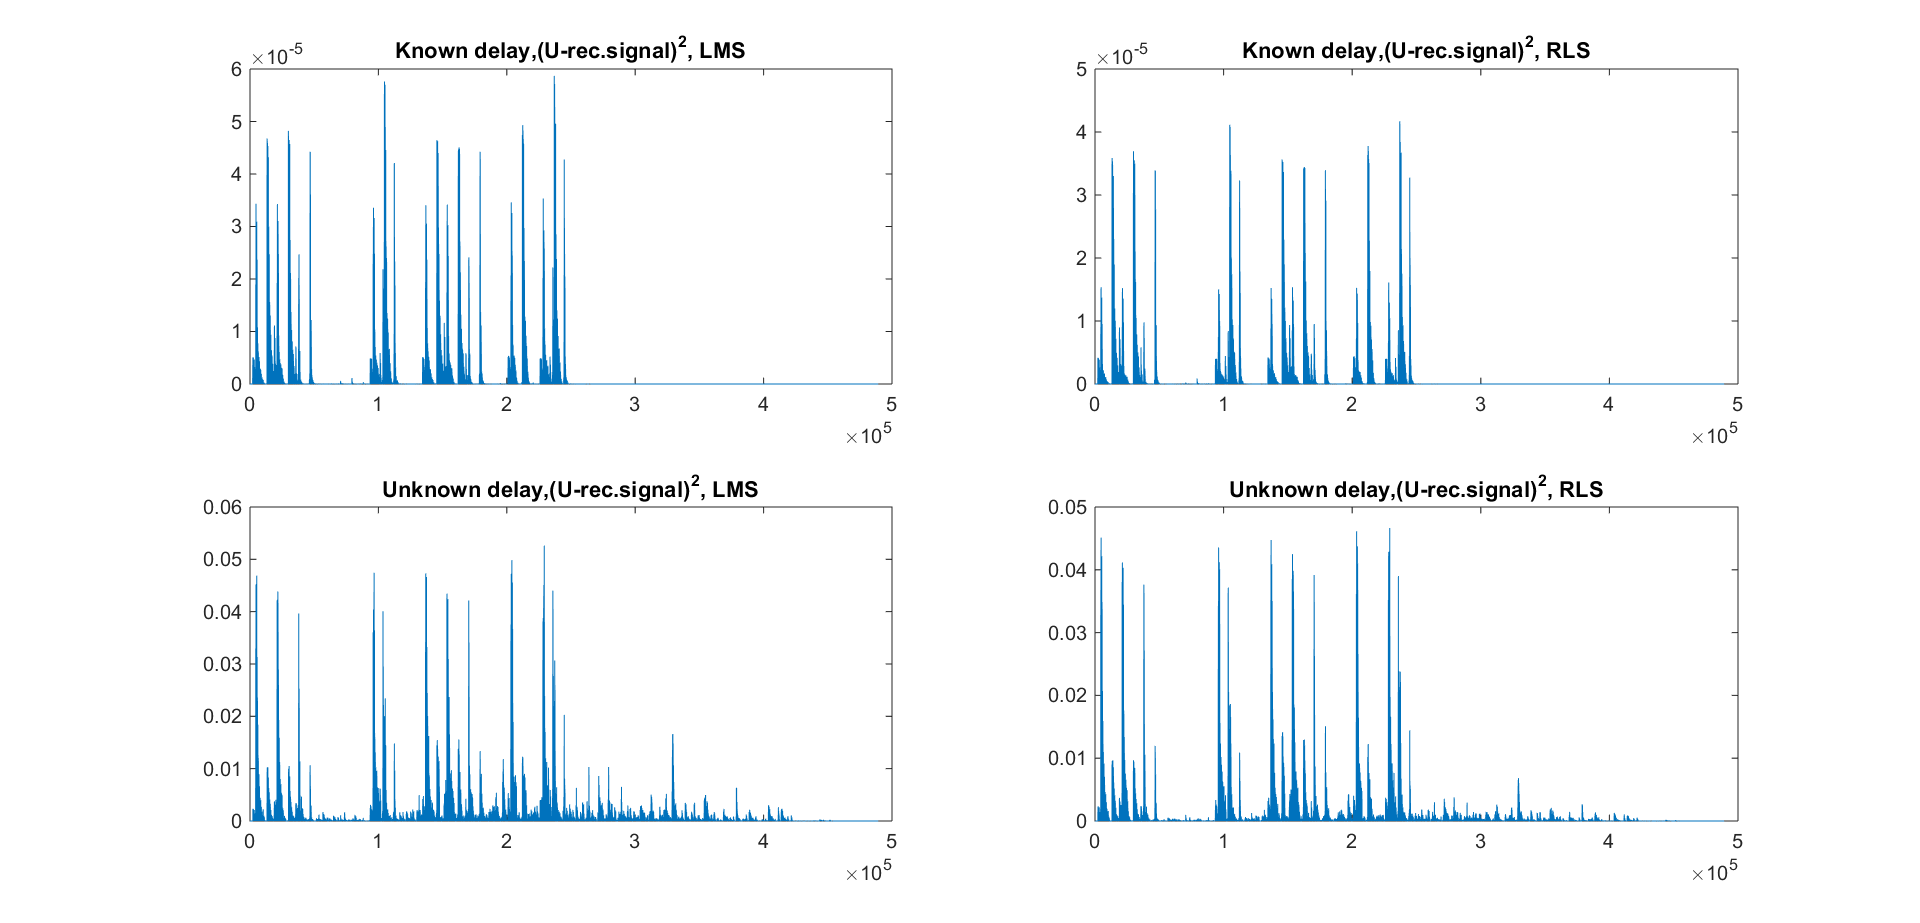
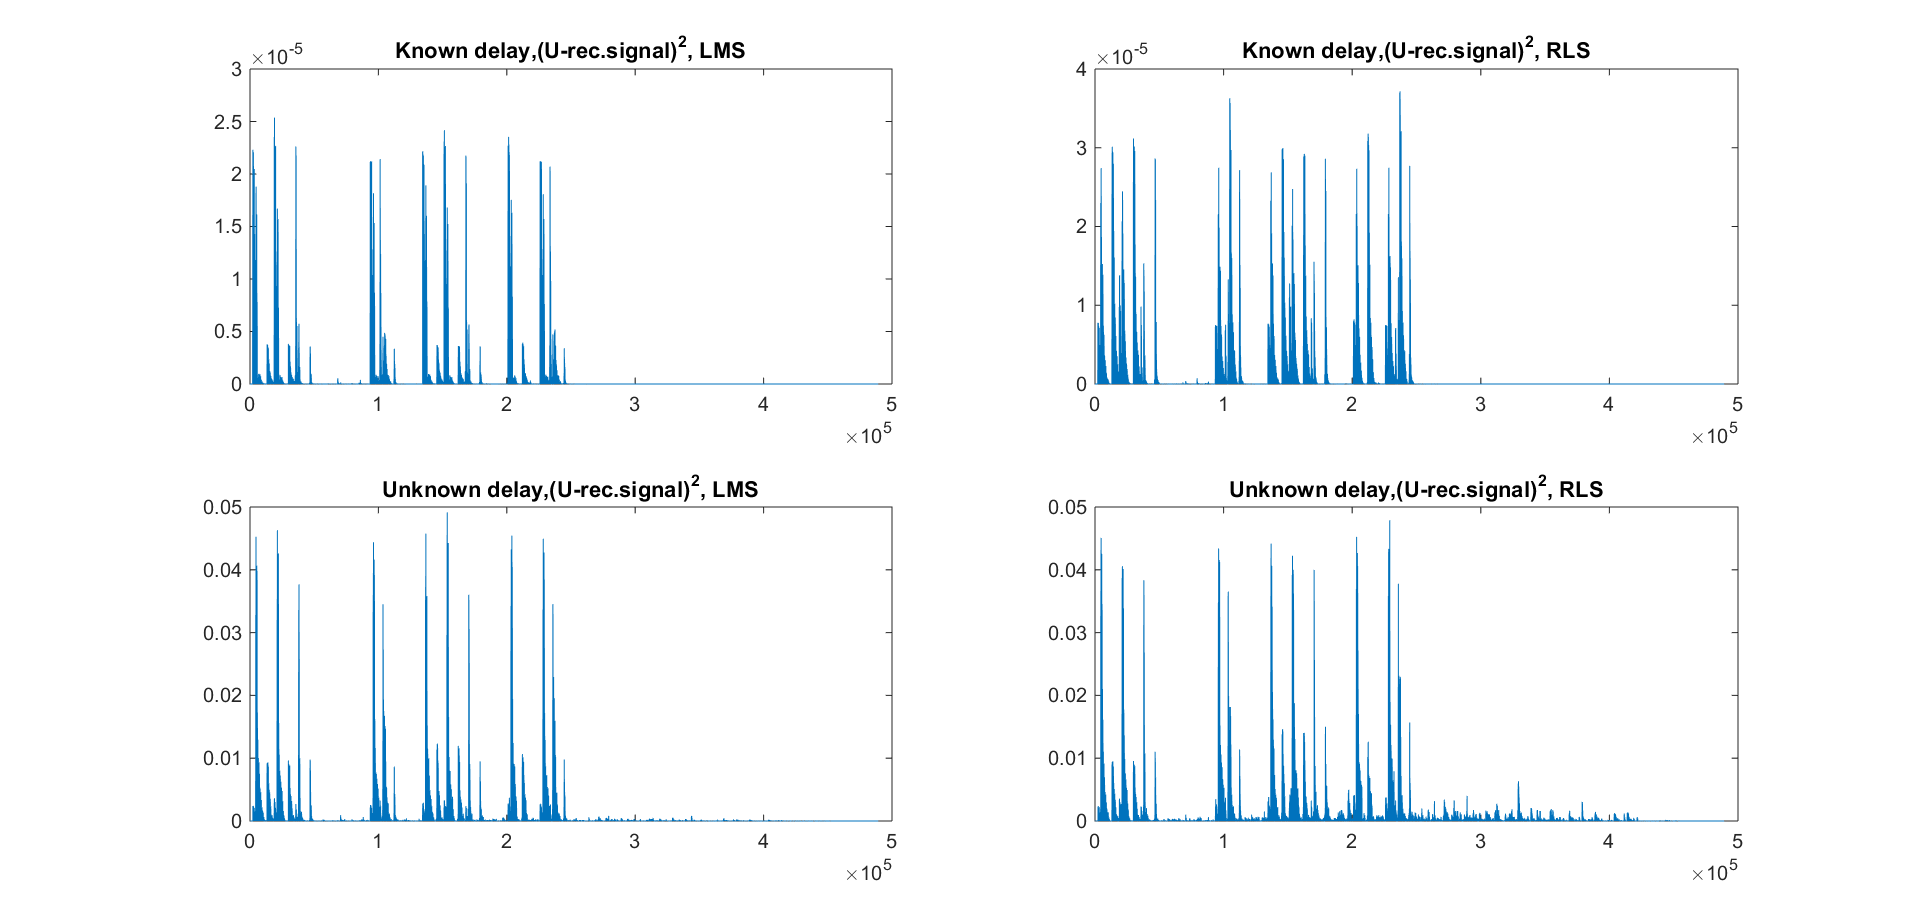
last touch, my = 0.001
va innan 0.01

diff --git a/HW1Signal.m b/HW1Signal.m
@@ -67,13 +67,13 @@ title('Audio mix')
 %Estimation of c usin LMS
 
 c_hatLMS1 = zeros(3,1);
-my = 0.01;  %Step size.
+my = 0.001;  %Step size.
 DL(length(DL)+1:length(s)) = 0;
 y_hat=zeros(length(DL),1);
 e=zeros(length(DL),1);
 phi=zeros(3,1);
 C_LMS_mat1 = zeros(3,length(DL));
-tic;
+tic; % Initiation of timer.
 for n = 1:length(DL)
     for m = 1:3
         if n-delay(m)>0
@@ -87,7 +87,7 @@ for n = 1:length(DL)
     c_hatLMS1=c_hatLMS1+2*my*phi*e(n);
     C_LMS_mat1(:,n) = c_hatLMS1;
 end
-timerLMS1 = toc;
+timerLMS1 = toc; % Termination of timer.
 disp('LMS known: ')
 disp(c_hatLMS1);
 disp(' ')
@@ -128,7 +128,6 @@ disp(' ')
 N_M = 5; %upper value, when multiplied with Fs_D, in delay vector.
 delay1 = (1/Fs_D:5000/Fs_D:N_M)*Fs_D; %Unknown delay vector.
 c_hatLMS2 = zeros(length(delay1),1);
-my = 0.01;
 DL(length(DL)+1:length(s)) = 0;
 y_hat=zeros(length(DL),1);
 e=zeros(length(DL),1);
